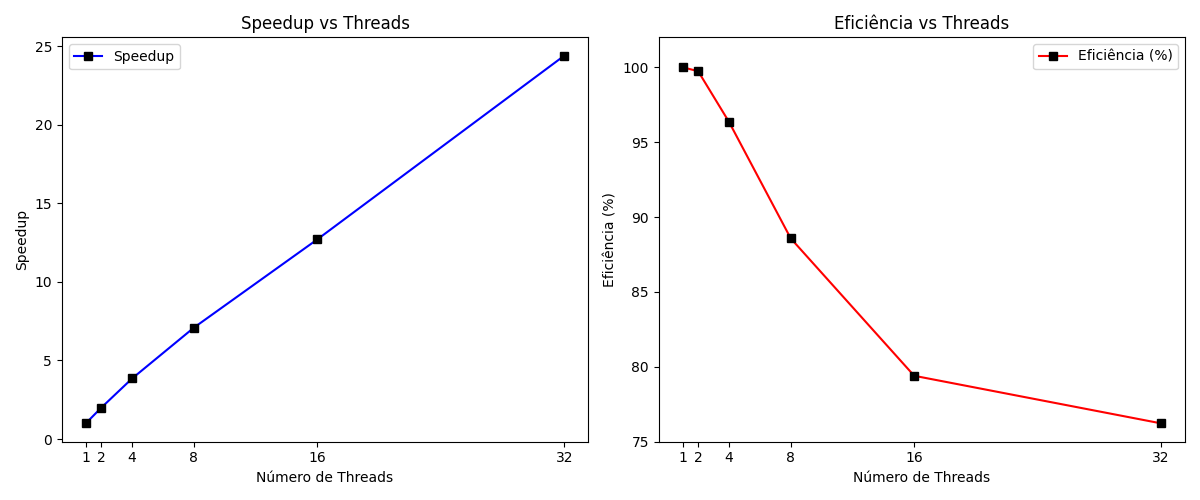
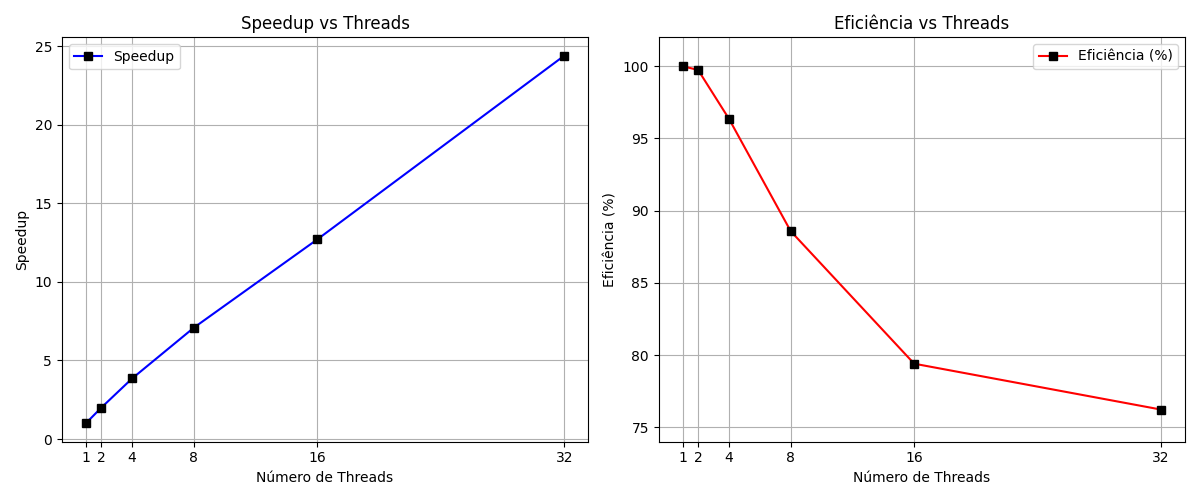
new task

diff --git a/TAREFA 15/task15.1.cpp b/TAREFA 15/task15.1.cpp
@@ -1,63 +1,69 @@
-#include <mpi.h>
-#include <iostream>
-#include <vector>
+#include <mpi.h>                     
+#include <iostream>                  
+#include <vector>                    
 
-using namespace std;
+using namespace std;                 
 
 // CONSTANTES
-const int N = 1000;            // TAMANHO TOTAL DA BARRA
-const int NUM_STEPS = 5000;    // NÚMERO DE PASSOS DE TEMPO
-const double ALPHA = 0.01;     // COEFICIENTE DE DIFUSÃO
+const int N = 100000;                  // TAMANHO TOTAL DA BARRA DE CALOR
+const int NUM_STEPS = 50000;         // NÚMERO TOTAL DE ITERAÇÕES (PASSOS DE TEMPO)
+const double ALPHA = 0.01;          // COEFICIENTE DE DIFUSÃO TÉRMICA (DEFINE A VELOCIDADE DA DIFUSÃO)
 
-// FUNÇÃO PARA TROCAR BORDAS USANDO MPI_Send / MPI_Recv
+// FUNÇÃO QUE TROCA OS VALORES DAS BORDAS ENTRE PROCESSOS VIZINHOS
 void troca_bordas(vector<double>& u, int rank, int size, int local_n) {
-    // ENVIA E RECEBE COMUNICAÇÃO BLOQUEANTE
+    // SE NÃO FOR O PRIMEIRO PROCESSO, ENVIA SUA PRIMEIRA POSIÇÃO REAL PARA O PROCESSO À ESQUERDA
     if (rank > 0)
         MPI_Send(&u[1], 1, MPI_DOUBLE, rank - 1, 0, MPI_COMM_WORLD);
+
+    // SE NÃO FOR O ÚLTIMO PROCESSO, ENVIA SUA ÚLTIMA POSIÇÃO REAL PARA O PROCESSO À DIREITA
     if (rank < size - 1)
         MPI_Send(&u[local_n], 1, MPI_DOUBLE, rank + 1, 1, MPI_COMM_WORLD);
+
+    // SE NÃO FOR O PRIMEIRO PROCESSO, RECEBE UM VALOR PARA SUA CÉLULA FANTASMA À ESQUERDA
     if (rank > 0)
         MPI_Recv(&u[0], 1, MPI_DOUBLE, rank - 1, 1, MPI_COMM_WORLD, MPI_STATUS_IGNORE);
+
+    // SE NÃO FOR O ÚLTIMO PROCESSO, RECEBE UM VALOR PARA SUA CÉLULA FANTASMA À DIREITA
     if (rank < size - 1)
         MPI_Recv(&u[local_n + 1], 1, MPI_DOUBLE, rank + 1, 0, MPI_COMM_WORLD, MPI_STATUS_IGNORE);
 }
 
 int main(int argc, char** argv) {
-    MPI_Init(&argc, &argv);
+    MPI_Init(&argc, &argv);                  // INICIALIZA O AMBIENTE MPI
 
     int rank, size;
-    MPI_Comm_rank(MPI_COMM_WORLD, &rank);
-    MPI_Comm_size(MPI_COMM_WORLD, &size);
+    MPI_Comm_rank(MPI_COMM_WORLD, &rank);    // OBTÉM O ID DO PROCESSO (RANK)
+    MPI_Comm_size(MPI_COMM_WORLD, &size);    // OBTÉM O NÚMERO TOTAL DE PROCESSOS
 
-    int local_n = N / size;
+    int local_n = N / size;                  // CADA PROCESSO TRABALHA COM UMA PARTE DA BARRA
 
-    // VETORES DE TEMPERATURA COM CÉLULAS FANTASMAS
-    vector<double> u(local_n + 2, 0.0);
-    vector<double> u_novo(local_n + 2, 0.0);
+    // CRIA DOIS VETORES DE TAMANHO local_n + 2 (INCLUINDO CÉLULAS FANTASMAS DOS DOIS LADOS)
+    vector<double> u(local_n + 2, 0.0);       // VETOR ATUAL DE TEMPERATURAS
+    vector<double> u_novo(local_n + 2, 0.0);  // VETOR PARA GUARDAR OS NOVOS VALORES
 
-    // CONDIÇÃO INICIAL: PICO DE CALOR NO CENTRO DA BARRA
+    // INSERE UM PICO DE CALOR NO MEIO DA BARRA GLOBAL (APENAS NO PROCESSO CENTRAL)
     if (rank == size / 2)
-        u[local_n / 2] = 100.0;
+        u[local_n / 2] = 100.0;               // AQUECE UMA POSIÇÃO CENTRAL LOCAL DO PROCESSO DO MEIO
 
-    double inicio = MPI_Wtime();
+    double inicio = MPI_Wtime();             // MARCA O TEMPO DE INÍCIO DA SIMULAÇÃO
 
-    // LOOP PRINCIPAL DE TEMPO
+    // LOOP PRINCIPAL DE TEMPO (DIFUSÃO DE CALOR)
     for (int passo = 0; passo < NUM_STEPS; ++passo) {
-        troca_bordas(u, rank, size, local_n);
+        troca_bordas(u, rank, size, local_n);    // TROCA AS BORDAS COM OS VIZINHOS (COMUNICAÇÃO)
 
-        // ATUALIZA OS VALORES INTERNOS
+        // ATUALIZA AS POSIÇÕES INTERNAS DO VETOR USANDO O ESQUEMA DE DIFUSÃO
         for (int i = 1; i <= local_n; ++i)
-            u_novo[i] = u[i] + ALPHA * (u[i - 1] - 2 * u[i] + u[i + 1]);
+            u_novo[i] = u[i] + ALPHA * (u[i - 1] - 2 * u[i] + u[i + 1]);  // CÁLCULO DA DIFUSÃO
 
-        swap(u, u_novo);
+        swap(u, u_novo);                      // TROCA OS VETORES PARA A PRÓXIMA ITERAÇÃO
     }
 
-    double fim = MPI_Wtime();
+    double fim = MPI_Wtime();                // MARCA O TEMPO DE FIM DA SIMULAÇÃO
 
-    // IMPRESSÃO DO TEMPO TOTAL
+    // O PROCESSO 0 IMPRIME O TEMPO TOTAL DA SIMULAÇÃO
     if (rank == 0)
         cout << "TEMPO (MPI_Send/MPI_Recv): " << (fim - inicio) << " s" << endl;
 
-    MPI_Finalize();
-    return 0;
+    MPI_Finalize();                          // FINALIZA O AMBIENTE MPI
+    return 0;                                // FIM DO PROGRAMA
 }

diff --git a/TAREFA 15/task15.3.cpp b/TAREFA 15/task15.3.cpp
@@ -4,14 +4,13 @@
 
 using namespace std;
 
-const int N = 1000;
-const int NUM_STEPS = 5000;
+const int N = 100000;
+const int NUM_STEPS = 50000;
 const double ALPHA = 0.01;
 
-// TROCA COM MPI_Test PARA SOBREPOSIÇÃO DE COMPUTAÇÃO E COMUNICAÇÃO
 void troca_bordas_overlap(vector<double>& u, vector<double>& u_novo, int rank, int size, int local_n) {
     MPI_Request reqs[4];
-    bool recv_ok[2] = {false, false};
+    int recv_ok[2] = {0, 0};
 
     // INICIA RECEBIMENTOS
     if (rank > 0)
@@ -19,7 +18,7 @@ void troca_bordas_overlap(vector<double>& u, vector<double>& u_novo, int rank, i
     if (rank < size - 1)
         MPI_Irecv(&u[local_n + 1], 1, MPI_DOUBLE, rank + 1, 0, MPI_COMM_WORLD, &reqs[1]);
 
-    // INICIA ENVIO
+    // INICIA ENVIOS
     if (rank > 0)
         MPI_Isend(&u[1], 1, MPI_DOUBLE, rank - 1, 0, MPI_COMM_WORLD, &reqs[2]);
     if (rank < size - 1)
@@ -33,12 +32,15 @@ void troca_bordas_overlap(vector<double>& u, vector<double>& u_novo, int rank, i
     if (rank > 0) while (!recv_ok[0]) MPI_Test(&reqs[0], &recv_ok[0], MPI_STATUS_IGNORE);
     if (rank < size - 1) while (!recv_ok[1]) MPI_Test(&reqs[1], &recv_ok[1], MPI_STATUS_IGNORE);
 
-    // CÁLCULO DAS BORDAS APÓS RECEBER
+    // CÁLCULO DAS BORDAS
     u_novo[1] = u[1] + ALPHA * (u[0] - 2 * u[1] + u[2]);
     u_novo[local_n] = u[local_n] + ALPHA * (u[local_n - 1] - 2 * u[local_n] + u[local_n + 1]);
 
-    // AGUARDA FIM DOS ENVIOS
-    MPI_Waitall(4, reqs, MPI_STATUSES_IGNORE);
+    // AGUARDA FIM DOS ENVIOS INDIVIDUALMENTE
+    if (rank > 0)
+        MPI_Wait(&reqs[2], MPI_STATUS_IGNORE);
+    if (rank < size - 1)
+        MPI_Wait(&reqs[3], MPI_STATUS_IGNORE);
 }
 
 int main(int argc, char** argv) {

diff --git a/TAREFA 13/FORTE/escalabilidade_forte.py b/TAREFA 13/FORTE/escalabilidade_forte.py
@@ -2,7 +2,8 @@ import pandas as pd
 from tabulate import tabulate
 
 # Tempos de execução medidos para diferentes quantidades de threads
-tempos = [22.5334, 11.2954, 6.00608, 3.20526, 1.82054, 1.87466]
+tempos = [22.5946, 11.3268, 5.86234, 3.18854, 1.77848, 0.926311]
+
 threads = [1, 2, 4, 8, 16, 32]
 
 # Tempo da execução sequencial (com 1 thread)
@@ -57,7 +58,7 @@ plt.title('Speedup vs Threads')
 plt.xlabel('Número de Threads')
 plt.ylabel('Speedup')
 plt.xticks(threads)
-plt.grid(False)
+plt.grid(True)
 plt.legend()
 
 # Plot da Eficiência vs Threads
@@ -67,8 +68,8 @@ plt.title('Eficiência vs Threads')
 plt.xlabel('Número de Threads')
 plt.ylabel('Eficiência (%)')
 plt.xticks(threads)
-plt.ylim(35, 102)  # Limite superior um pouco acima de 100% para visualização
-plt.grid(False)
+plt.ylim(74, 102)  # Limite superior um pouco acima de 100% para visualização
+plt.grid(True)
 plt.legend()
 
 plt.tight_layout()

diff --git a/TAREFA 14/graph.py b/TAREFA 14/graph.py
@@ -1,0 +1,28 @@
+import matplotlib.pyplot as plt
+
+# Dados fornecidos
+tamanhos = [8, 64, 512, 1024, 4096, 8192, 65536, 131072, 1048576]  # em bytes
+tempos = [
+    0.000020981021,
+    0.000000352592,
+    0.000001512440,
+    0.000000907705,
+    0.000002637904,
+    0.000001967965,
+    0.000009439237,
+    0.000018293484,
+    0.000141443389
+]  # em segundos
+
+# Criar o gráfico
+plt.figure(figsize=(8, 4))
+plt.plot(tamanhos, tempos, marker='o', linestyle='-', color='red')
+plt.xscale('log')
+plt.yscale('log')
+plt.xlabel('Tamanho da Mensagem (bytes)')
+plt.ylabel('Tempo Médio Ida-Volta (s)')
+plt.title('Tempo de Comunicação MPI em Função do Tamanho da Mensagem')
+plt.grid(True, which="both", ls="--", linewidth=0.5)
+plt.tight_layout()
+
+plt.show()

diff --git a/TAREFA 15/task15.2.cpp b/TAREFA 15/task15.2.cpp
@@ -4,8 +4,8 @@
 
 using namespace std;
 
-const int N = 1000;
-const int NUM_STEPS = 5000;
+const int N = 100000;
+const int NUM_STEPS = 50000;
 const double ALPHA = 0.01;
 
 // TROCA NÃO BLOQUEANTE COM MPI_Isend / Irecv
